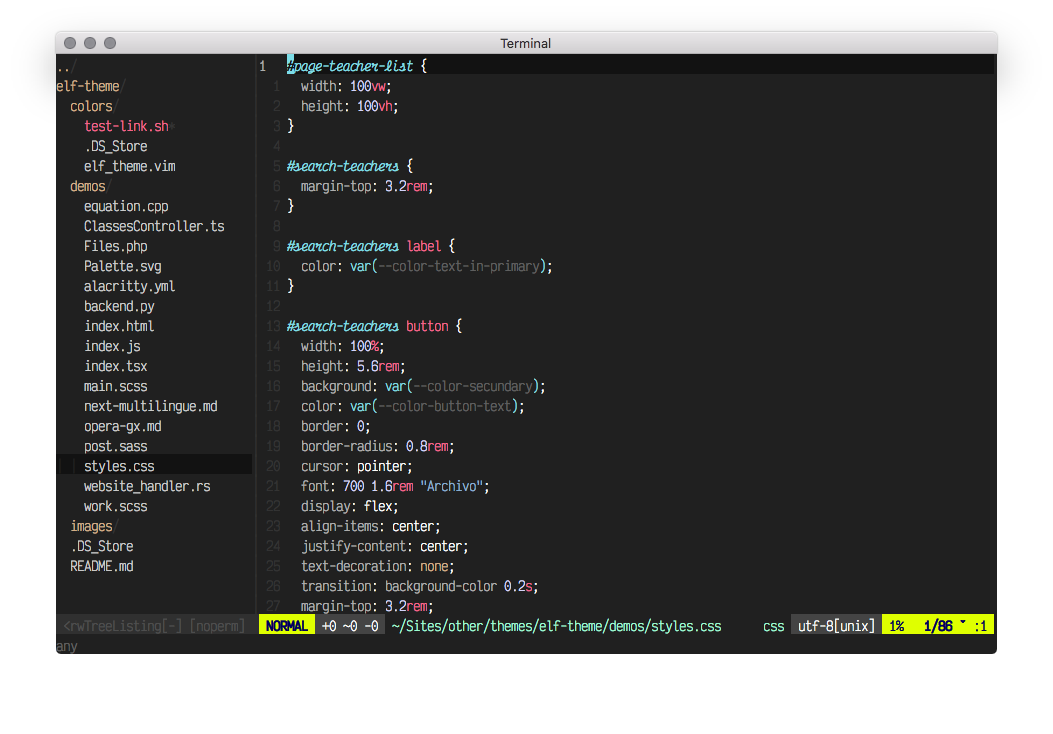
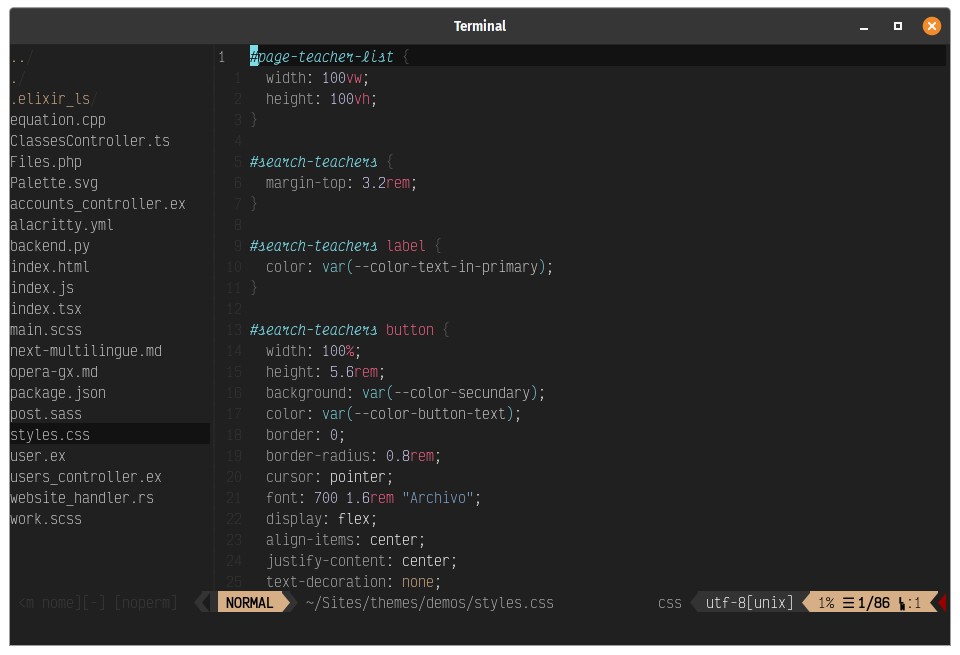
Readme and Images

diff --git a/README.md b/README.md
@@ -24,4 +24,62 @@ If you want to make it your default, just add this line to your `init.vim`:
 colorscheme sobrio
 ```
 
+## Screenshots
+
+### HTML
+
+![HTML](./images/html.png)
+
+### JavaScript / Typescript
+
+![JavaScript](./images/js.png)
+
+### React
+
+![JavaScript](./images/jsx-tsx.png)
+
+### CSS
+
+![CSS](./images/css.png)
+
+### SCSS
+
+![SCSS](./images/scss.png)
+
+### Sass
+
+![Sass](./images/sass.png)
+
+### SVG
+
+![SVG](./images/svg.png)
+
+### YAML
+
+![YAML](./images/yaml.png)
+
+### JSON
+
+![JSON](./images/json.png)
+
+### Python
+
+![Python](./images/python.png)
+
+### PHP
+
+![PHP](./images/php.png)
+
+### Elixir
+
+![Elixir](./images/elixir.png)
+
+### Rust
+
+![Rust](./images/rust.png)
+
+### C++
+
+![C++](./images/cpp.png)
+
 Take cake!
